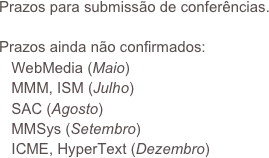
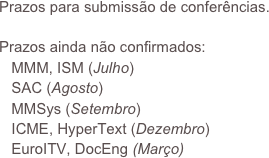
Atualização de cfp.

diff --git a/CFP.html b/CFP.html
@@ -6,23 +6,17 @@
   <head><meta http-equiv="Content-Type" content="text/html; charset=UTF-8" />
     
     <meta name="Generator" content="iWeb 3.0.4" />
-    <meta name="iWeb-Build" content="local-build-20130204" />
+    <meta name="iWeb-Build" content="local-build-20130404" />
     <meta http-equiv="X-UA-Compatible" content="IE=EmulateIE7" />
     <meta name="viewport" content="width=700" />
     <title>CFP</title>
     <link rel="stylesheet" type="text/css" media="screen,print" href="CFP_files/CFP.css" />
     <!--[if lt IE 8]><link rel='stylesheet' type='text/css' media='screen,print' href='CFP_files/CFPIE.css'/><![endif]-->
     <!--[if gte IE 8]><link rel='stylesheet' type='text/css' media='screen,print' href='Media/IE8.css'/><![endif]-->
-    <style type="text/css"><!--
-	@import "Scripts/Widgets/Timer/TimerWidget.css";
---></style>
     <script type="text/javascript" src="Scripts/iWebSite.js"></script>
     <script type="text/javascript" src="Scripts/Widgets/SharedResources/WidgetCommon.js"></script>
     <script type="text/javascript" src="Scripts/Widgets/Navbar/navbar.js"></script>
     <script type="text/javascript" src="Scripts/iWebImage.js"></script>
-    <script type="text/javascript" src="Scripts/iWebMediaGrid.js"></script>
-    <script type="text/javascript" src="Scripts/Widgets/Timer/TimerWidget.js"></script>
-    <script type="text/javascript" src="Scripts/Widgets/Timer/localizedStrings.js"></script>
     <script type="text/javascript" src="CFP_files/CFP.js"></script>
   </head>
   <body style="background: rgb(69, 105, 147); margin: 0pt; " onload="onPageLoad();" onunload="onPageUnload();">
@@ -82,7 +76,7 @@ new NavBar('widget0', 'Scripts/Widgets/Navbar', 'Scripts/Widgets/SharedResources
 
             <div style="height: 198px; width: 355px;  height: 198px; left: 310px; position: absolute; top: 93px; width: 355px; z-index: 1; " class="tinyText style_SkipStrokeSkipFillSkipOpacity shadow_1">
               <div style="position: relative; width: 355px; ">
-                <img src="CFP_files/shapeimage_4.png" alt="Prazos para submissão de conferências.&#10;&#10;Prazos ainda não confirmados:&#10;   WebMedia (Maio)&#10;   MMM, ISM (Julho)&#10;   SAC (Agosto)&#10;   MMSys (Setembro)&#10;   ICME, HyperText (Dezembro)" style="height: 158px; left: 0px; margin-left: 5px; margin-top: 8px; position: absolute; top: 0px; width: 269px; " />
+                <img src="CFP_files/shapeimage_4.png" alt="Prazos para submissão de conferências.&#10;&#10;Prazos ainda não confirmados:&#10;   MMM, ISM (Julho)&#10;   SAC (Agosto)&#10;   MMSys (Setembro)&#10;   ICME, HyperText (Dezembro)&#10;   EuroITV, DocEng (Março)" style="height: 158px; left: 0px; margin-left: 5px; margin-top: 8px; position: absolute; top: 0px; width: 269px; " />
               </div>
             </div>
           </div>
@@ -100,7 +94,7 @@ new NavBar('widget0', 'Scripts/Widgets/Navbar', 'Scripts/Widgets/SharedResources
               <div class="text-content graphic_textbox_layout_style_default_External_631_109" style="padding: 0px; ">
                 <div class="graphic_textbox_layout_style_default">
                   <p style="padding-top: 0pt; " class="Body"><span class="style">Abstract</span>: 31 de Março de 2013<br /></p>
-                  <p class="Body"><span class="style">Submissão</span>: 7 de Abril de 2013<br /></p>
+                  <p class="Body"><span class="style">Submissão</span>: <span class="style_1">7 de Abril de 2013</span> 14 de Abril de 2013<br /></p>
                   <p style="padding-bottom: 0pt; " class="Body"><span class="style">Páginas</span>: 10</p>
                 </div>
               </div>
@@ -112,19 +106,6 @@ new NavBar('widget0', 'Scripts/Widgets/Navbar', 'Scripts/Widgets/SharedResources
               <div class="text-content graphic_textbox_layout_style_default_External_300_26" style="padding: 0px; ">
                 <div class="graphic_textbox_layout_style_default">
                   <p style="padding-bottom: 0pt; padding-top: 0pt; " class="paragraph_style">10 a 13 de Setembro - Florence, It</p>
-                </div>
-              </div>
-            </div>
-            <div class="com-apple-iweb-widget-timer" id="widget1" style="height: 50px; left: 540px; opacity: 1.00; position: absolute; top: 150px; width: 126px; z-index: 1; ">
-              <div id="widget1-timer" class="timer_widget noAutoPNGFixInTree"></div>
-            </div>
-            <script type="text/javascript"><!--//--><![CDATA[//><!--
-new TimerWidget('widget1', 'Scripts/Widgets/Timer', 'Scripts/Widgets/SharedResources', '.', {"type": 0, "labelsEnabled": 1, "labelFontFactor": 1.2, "labelFontSize": 10, "unitsRange": {"location": 1, "length": 3}, "target": 1364785140000});
-//--><!]]></script>
-            <div id="id3" style="height: 27px; left: 540px; position: absolute; top: 123px; width: 100px; z-index: 1; " class="style_SkipStroke shape-with-text">
-              <div class="text-content graphic_textbox_layout_style_default_External_100_27" style="padding: 0px; ">
-                <div class="graphic_textbox_layout_style_default">
-                  <p style="padding-bottom: 0pt; padding-top: 0pt; " class="paragraph_style_1">Faltam:</p>
                 </div>
               </div>
             </div>
@@ -161,43 +142,32 @@ new TimerWidget('widget1', 'Scripts/Widgets/Timer', 'Scripts/Widgets/SharedResou
             
 
 
-            <div id="id4" style="height: 109px; left: 34px; position: absolute; top: 276px; width: 631px; z-index: 1; " class="style_SkipStroke shape-with-text">
+            <div id="id3" style="height: 109px; left: 34px; position: absolute; top: 276px; width: 631px; z-index: 1; " class="style_SkipStroke shape-with-text">
               <div class="text-content graphic_textbox_layout_style_default_External_631_109" style="padding: 0px; ">
                 <div class="graphic_textbox_layout_style_default">
-                  <p style="padding-top: 0pt; " class="Body"><span class="style">Abstract</span>: 1 de Março de 2013<br /></p>
-                  <p class="Body"><span class="style">Submissão</span>: 8 de Março de 2013<br /></p>
-                  <p style="padding-bottom: 0pt; " class="Body"><span class="style">Páginas</span>: 10 -- <span class="style">double-blinded</span></p>
+                  <p style="padding-top: 0pt; " class="Body"><span class="style">Submissão</span>: 20 de Maio de 2013<br /></p>
+                  <p class="Body"><span class="style">Rebuttal</span>: 17 - 24 de Junho de 2013<br /></p>
+                  <p style="padding-bottom: 0pt; " class="Body"><span class="style">Páginas</span>: 8 -- <span class="style">double-blinded</span></p>
                 </div>
               </div>
             </div>
             
 
 
-            <div id="id5" style="height: 26px; left: 365px; position: absolute; top: 250px; width: 300px; z-index: 1; " class="style_SkipStroke shape-with-text">
+            <div id="id4" style="height: 26px; left: 365px; position: absolute; top: 250px; width: 300px; z-index: 1; " class="style_SkipStroke shape-with-text">
               <div class="text-content graphic_textbox_layout_style_default_External_300_26" style="padding: 0px; ">
                 <div class="graphic_textbox_layout_style_default">
-                  <p style="padding-bottom: 0pt; padding-top: 0pt; " class="paragraph_style">21 a 25 de Outubro - Bracelona, Es</p>
-                </div>
-              </div>
-            </div>
-            <div class="com-apple-iweb-widget-timer" id="widget2" style="height: 50px; left: 540px; opacity: 1.00; position: absolute; top: 335px; width: 126px; z-index: 1; ">
-              <div id="widget2-timer" class="timer_widget noAutoPNGFixInTree"></div>
-            </div>
-            <script type="text/javascript"><!--//--><![CDATA[//><!--
-new TimerWidget('widget2', 'Scripts/Widgets/Timer', 'Scripts/Widgets/SharedResources', '.', {"type": 0, "labelsEnabled": 1, "labelFontFactor": 1.2, "labelFontSize": 10, "unitsRange": {"location": 1, "length": 3}, "target": 1362193140000});
-//--><!]]></script>
-            <div id="id6" style="height: 27px; left: 540px; position: absolute; top: 308px; width: 100px; z-index: 1; " class="style_SkipStroke shape-with-text">
-              <div class="text-content graphic_textbox_layout_style_default_External_100_27" style="padding: 0px; ">
-                <div class="graphic_textbox_layout_style_default">
-                  <p style="padding-bottom: 0pt; padding-top: 0pt; " class="paragraph_style_1">Faltam:</p>
+                  <p style="padding-bottom: 0pt; padding-top: 0pt; " class="paragraph_style">5 a 8 de Novembro - Salvador</p>
                 </div>
               </div>
             </div>
             
 
 
-            <div class="tinyText" style="height: 32px; left: 34px; position: absolute; top: 244px; width: 157px; z-index: 1; ">
-              <img usemap="#map2" id="shapeimage_10" src="CFP_files/shapeimage_10.png" style="border: none; height: 63px; left: -13px; position: absolute; top: -13px; width: 191px; z-index: 1; " alt="ACM Multimedia" title="" /><map name="map2" id="map2"><area href="http://acmmm13.org" title="http://acmmm13.org" onmouseover="IMmouseover('shapeimage_10', '0');" alt="http://acmmm13.org" onmouseout="IMmouseout('shapeimage_10', '0');" shape="rect" coords="17, 17, 165, 44" onclick="window.open(this.href); return false;" onkeypress="window.open(this.href); return false;" /></map><img style="height: 27px; left: 4px; position: absolute; top: 4px; width: 148px; " id="shapeimage_10_link_0" alt="shapeimage_10_link_0" src="CFP_files/shapeimage_10_link_0.png" />
+            <div style="height: 37px; width: 158px;  height: 32px; left: 34px; position: absolute; top: 244px; width: 157px; z-index: 1; " class="tinyText style_SkipStrokeSkipFillSkipOpacity_1">
+              <div style="position: relative; width: 157px; ">
+                <img src="CFP_files/shapeimage_10.png" alt="WebMedia" style="height: 34px; left: 0px; margin-left: -1px; margin-top: 3px; position: absolute; top: 0px; width: 112px; " />
+              </div>
             </div>
             
 
@@ -212,7 +182,7 @@ new TimerWidget('widget2', 'Scripts/Widgets/Timer', 'Scripts/Widgets/SharedResou
 
             <div style="height: 37px; width: 42px;  height: 37px; left: 195px; position: absolute; top: 224px; width: 42px; z-index: 1; " class="tinyText">
               <div style="position: relative; width: 42px; ">
-                <img src="CFP_files/shapeimage_12.png" alt="A1" style="height: 16px; left: 0px; margin-left: 15px; margin-top: 14px; position: absolute; top: 0px; width: 17px; " />
+                <img src="CFP_files/shapeimage_12.png" alt="B3" style="height: 18px; left: 0px; margin-left: 12px; margin-top: 12px; position: absolute; top: 0px; width: 19px; " />
               </div>
             </div>
             
@@ -223,66 +193,7 @@ new TimerWidget('widget2', 'Scripts/Widgets/Timer', 'Scripts/Widgets/SharedResou
                 <img src="CFP_files/shapeimage_13.jpg" alt="" style="height: 1px; left: 0px; position: absolute; top: 0px; width: 630px; " />
               </div>
             </div>
-            
-
-
-            <div id="id7" style="height: 109px; left: 34px; position: absolute; top: 461px; width: 631px; z-index: 1; " class="style_SkipStroke shape-with-text">
-              <div class="text-content graphic_textbox_layout_style_default_External_631_109" style="padding: 0px; ">
-                <div class="graphic_textbox_layout_style_default">
-                  <p style="padding-top: 0pt; " class="Body"><span class="style">Submissão</span>: <span class="style_1">1 de Fevereiro de 2013</span> 8 de Fevereiro de 2013<br /></p>
-                  <p class="Body"><span class="style">Páginas</span>: 8 a 10 -- <span class="style">double-blinded</span><br /></p>
-                  <p class="Body"><br /></p>
-                  <p class="Body"><br /></p>
-                  <p style="padding-bottom: 0pt; " class="Body">Track 2: Systems and Enabling Technologies</p>
-                </div>
-              </div>
-            </div>
-            
-
-
-            <div id="id8" style="height: 26px; left: 365px; position: absolute; top: 435px; width: 300px; z-index: 1; " class="style_SkipStroke shape-with-text">
-              <div class="text-content graphic_textbox_layout_style_default_External_300_26" style="padding: 0px; ">
-                <div class="graphic_textbox_layout_style_default">
-                  <p style="padding-bottom: 0pt; padding-top: 0pt; " class="paragraph_style">24 a 16 de Junho - Como, It</p>
-                </div>
-              </div>
-            </div>
-            <div class="com-apple-iweb-widget-timer" id="widget3" style="height: 50px; left: 540px; opacity: 1.00; position: absolute; top: 520px; width: 126px; z-index: 1; ">
-              <div id="widget3-timer" class="timer_widget noAutoPNGFixInTree"></div>
-            </div>
-            <script type="text/javascript"><!--//--><![CDATA[//><!--
-new TimerWidget('widget3', 'Scripts/Widgets/Timer', 'Scripts/Widgets/SharedResources', '.', {"type": 0, "labelsEnabled": 1, "labelFontFactor": 1.2, "labelFontSize": 10, "unitsRange": {"location": 1, "length": 3}, "target": 1360375140000});
-//--><!]]></script>
-            <div id="id9" style="height: 27px; left: 540px; position: absolute; top: 493px; width: 100px; z-index: 1; " class="style_SkipStroke shape-with-text">
-              <div class="text-content graphic_textbox_layout_style_default_External_100_27" style="padding: 0px; ">
-                <div class="graphic_textbox_layout_style_default">
-                  <p style="padding-bottom: 0pt; padding-top: 0pt; " class="paragraph_style_1">Faltam:</p>
-                </div>
-              </div>
-            </div>
-            
-
-
-            <div class="tinyText" style="height: 32px; left: 34px; position: absolute; top: 429px; width: 82px; z-index: 1; ">
-              <img usemap="#map3" id="shapeimage_14" src="CFP_files/shapeimage_14.png" style="border: none; height: 63px; left: -13px; position: absolute; top: -13px; width: 116px; z-index: 1; " alt="EuroITV" title="" /><map name="map3" id="map3"><area href="https://sites.google.com/a/euro-itv.org/2013/home" title="https://sites.google.com/a/euro-itv.org/2013/home" onmouseover="IMmouseover('shapeimage_14', '0');" alt="https://sites.google.com/a/euro-itv.org/2013/home" onmouseout="IMmouseout('shapeimage_14', '0');" shape="rect" coords="17, 17, 90, 44" onclick="window.open(this.href); return false;" onkeypress="window.open(this.href); return false;" /></map><img style="height: 27px; left: 4px; position: absolute; top: 4px; width: 73px; " id="shapeimage_14_link_0" alt="shapeimage_14_link_0" src="CFP_files/shapeimage_14_link_0.png" />
-            </div>
-            
-
-
-            <div style="height: 44px; width: 44px;  height: 44px; left: 119px; position: absolute; top: 408px; width: 44px; z-index: 1; " class="tinyText">
-              <div style="position: relative; width: 44px; ">
-                <img src="CFP_files/shapeimage_15.png" alt="" style="height: 40px; left: 0px; margin-left: 1px; position: absolute; top: 0px; width: 42px; " />
-              </div>
-            </div>
-            
-
-
-            <div style="height: 37px; width: 42px;  height: 37px; left: 119px; position: absolute; top: 409px; width: 42px; z-index: 1; " class="tinyText">
-              <div style="position: relative; width: 42px; ">
-                <img src="CFP_files/shapeimage_16.png" alt="B3" style="height: 18px; left: 0px; margin-left: 12px; margin-top: 12px; position: absolute; top: 0px; width: 19px; " />
-              </div>
-            </div>
-            <div style="height: 570px; line-height: 570px; " class="spacer"> </div>
+            <div style="height: 480px; line-height: 480px; " class="spacer"> </div>
           </div>
           <div style="height: 100px; margin-left: 0px; position: relative; width: 700px; z-index: 15; " id="footer_layer">
             <div style="height: 0px; line-height: 0px; " class="bumper"> </div>

diff --git a/CFP_files/CFP.css b/CFP_files/CFP.css
@@ -6,6 +6,17 @@
     font-weight: 400;
     line-height: 20px;
 }
+.style_1 {
+    color: rgb(146, 146, 146);
+    font-family: 'Arial-ItalicMT', 'Arial', sans-serif;
+    font-size: 15px;
+    font-stretch: normal;
+    font-style: italic;
+    font-weight: 400;
+    line-height: 20px;
+    opacity: 1.00;
+    text-decoration: line-through;
+}
 .paragraph_style {
     color: rgb(88, 77, 77);
     font-family: 'ArialMT', 'Arial', sans-serif;
@@ -28,40 +39,9 @@
     text-indent: 0px;
     text-transform: none;
 }
-.paragraph_style_1 {
-    color: rgb(146, 146, 146);
-    font-family: 'ArialMT', 'Arial', sans-serif;
-    font-size: 15px;
-    font-stretch: normal;
-    font-style: normal;
-    font-variant: normal;
-    font-weight: 400;
-    letter-spacing: 0;
-    line-height: 20px;
-    margin-bottom: 0px;
-    margin-left: 0px;
-    margin-right: 0px;
-    margin-top: 0px;
-    opacity: 1.00;
-    padding-bottom: 0px;
-    padding-top: 0px;
-    text-align: left;
-    text-decoration: none;
-    text-indent: 0px;
-    text-transform: none;
-}
-.style_1 {
-    color: rgb(153, 153, 153);
-    font-family: 'Arial-ItalicMT', 'Arial', sans-serif;
-    font-size: 15px;
-    font-stretch: normal;
-    font-style: italic;
-    font-weight: 400;
-    line-height: 20px;
-    opacity: 1.00;
-    text-decoration: line-through;
-}
 .style_SkipStrokeSkipFillSkipOpacity {
+}
+.style_SkipStrokeSkipFillSkipOpacity_1 {
 }
 .style_SkipStroke {
     background: transparent;
@@ -100,119 +80,31 @@
 .graphic_textbox_layout_style_default_External_300_26 {
     position: relative;
 }
-.graphic_textbox_layout_style_default_External_100_27 {
-    position: relative;
+.graphic_textbox_style_default_SkipStrokeSkipFillSkipOpacity {
 }
 .graphic_textbox_style_default_SkipStroke {
     background: transparent;
     opacity: 1.00;
 }
-#widget3 .Timer_Labels {
-    color: rgb(88, 77, 77);
-    font-family: 'ArialMT', 'Arial', sans-serif;
-    font-size: 10px;
-    font-stretch: normal;
-    font-style: normal;
-    font-variant: normal;
-    font-weight: 400;
-    letter-spacing: 0;
-    line-height: 13px;
-    margin-bottom: 0px;
-    margin-top: 0px;
-    opacity: 1.00;
-    text-align: left;
-    text-decoration: none;
-    text-transform: none;
+.bumper {
+    font-size: 1px;
+    line-height: 1px;
 }
-#widget1 a:visited {
-    color: rgb(121, 121, 121);
-    text-decoration: underline;
-}
-#widget3 a {
-    color: rgb(88, 77, 77);
+#widget0 a:hover {
+    color: rgb(0, 0, 0);
     text-decoration: underline;
 }
 #widget0 a:visited {
     color: rgb(121, 121, 121);
     text-decoration: underline;
 }
-#widget1 a:hover {
-    color: rgb(0, 0, 0);
+#widget0 a {
+    color: rgb(88, 77, 77);
     text-decoration: underline;
 }
 .spacer {
     font-size: 1px;
     line-height: 1px;
-}
-#widget3 a:visited {
-    color: rgb(121, 121, 121);
-    text-decoration: underline;
-}
-#widget2 a:visited {
-    color: rgb(121, 121, 121);
-    text-decoration: underline;
-}
-#widget3 a:hover {
-    color: rgb(0, 0, 0);
-    text-decoration: underline;
-}
-#widget0 a {
-    color: rgb(88, 77, 77);
-    text-decoration: underline;
-}
-#widget2 .Timer_Labels {
-    color: rgb(88, 77, 77);
-    font-family: 'ArialMT', 'Arial', sans-serif;
-    font-size: 10px;
-    font-stretch: normal;
-    font-style: normal;
-    font-variant: normal;
-    font-weight: 400;
-    letter-spacing: 0;
-    line-height: 13px;
-    margin-bottom: 0px;
-    margin-top: 0px;
-    opacity: 1.00;
-    text-align: left;
-    text-decoration: none;
-    text-transform: none;
-}
-#widget1 a {
-    color: rgb(88, 77, 77);
-    text-decoration: underline;
-}
-#widget0 a:hover {
-    color: rgb(0, 0, 0);
-    text-decoration: underline;
-}
-#widget2 a {
-    color: rgb(88, 77, 77);
-    text-decoration: underline;
-}
-#widget1 .Timer_Labels {
-    color: rgb(88, 77, 77);
-    font-family: 'ArialMT', 'Arial', sans-serif;
-    font-size: 10px;
-    font-stretch: normal;
-    font-style: normal;
-    font-variant: normal;
-    font-weight: 400;
-    letter-spacing: 0;
-    line-height: 13px;
-    margin-bottom: 0px;
-    margin-top: 0px;
-    opacity: 1.00;
-    text-align: left;
-    text-decoration: none;
-    text-transform: none;
-}
-.bumper {
-    font-size: 1px;
-    line-height: 1px;
-}
-#widget2 a:hover {
-    color: rgb(0, 0, 0);
-    text-decoration: underline;
 }
 body { 
     -webkit-text-size-adjust: none;

diff --git a/CFP_files/CFP.js b/CFP_files/CFP.js
@@ -1,11 +1,11 @@
-// Created by iWeb 3.0.4 local-build-20130204
+// Created by iWeb 3.0.4 local-build-20130404
 
 setTransparentGifURL('Media/transparent.gif');function applyEffects()
-{var registry=IWCreateEffectRegistry();registry.registerEffects({shadow_1:new IWShadow({blurRadius:6,offset:new IWPoint(3.5355,3.5355),color:'#c0c0c0',opacity:0.500000}),reflection_0:new IWReflection({opacity:0.50,offset:1.00}),shadow_0:new IWShadow({blurRadius:6,offset:new IWPoint(3.5355,3.5355),color:'#c0c0c0',opacity:0.500000})});registry.applyEffects();}
+{var registry=IWCreateEffectRegistry();registry.registerEffects({reflection_0:new IWReflection({opacity:0.50,offset:1.00}),shadow_0:new IWShadow({blurRadius:6,offset:new IWPoint(3.5355,3.5355),color:'#c0c0c0',opacity:0.500000}),shadow_1:new IWShadow({blurRadius:6,offset:new IWPoint(3.5355,3.5355),color:'#c0c0c0',opacity:0.500000})});registry.applyEffects();}
 function hostedOnDM()
 {return false;}
 function onPageLoad()
 {loadMozillaCSS('CFP_files/CFPMoz.css')
-adjustLineHeightIfTooBig('id1');adjustFontSizeIfTooBig('id1');adjustLineHeightIfTooBig('id2');adjustFontSizeIfTooBig('id2');adjustLineHeightIfTooBig('id3');adjustFontSizeIfTooBig('id3');adjustLineHeightIfTooBig('id4');adjustFontSizeIfTooBig('id4');adjustLineHeightIfTooBig('id5');adjustFontSizeIfTooBig('id5');adjustLineHeightIfTooBig('id6');adjustFontSizeIfTooBig('id6');adjustLineHeightIfTooBig('id7');adjustFontSizeIfTooBig('id7');adjustLineHeightIfTooBig('id8');adjustFontSizeIfTooBig('id8');adjustLineHeightIfTooBig('id9');adjustFontSizeIfTooBig('id9');fixupAllIEPNGBGs();Widget.onload();fixAllIEPNGs('Media/transparent.gif');IMpreload('CFP_files','shapeimage_6','0');IMpreload('CFP_files','shapeimage_10','0');IMpreload('CFP_files','shapeimage_14','0');applyEffects()}
+adjustLineHeightIfTooBig('id1');adjustFontSizeIfTooBig('id1');adjustLineHeightIfTooBig('id2');adjustFontSizeIfTooBig('id2');adjustLineHeightIfTooBig('id3');adjustFontSizeIfTooBig('id3');adjustLineHeightIfTooBig('id4');adjustFontSizeIfTooBig('id4');fixupAllIEPNGBGs();Widget.onload();fixAllIEPNGs('Media/transparent.gif');IMpreload('CFP_files','shapeimage_6','0');applyEffects()}
 function onPageUnload()
 {Widget.onunload();}
